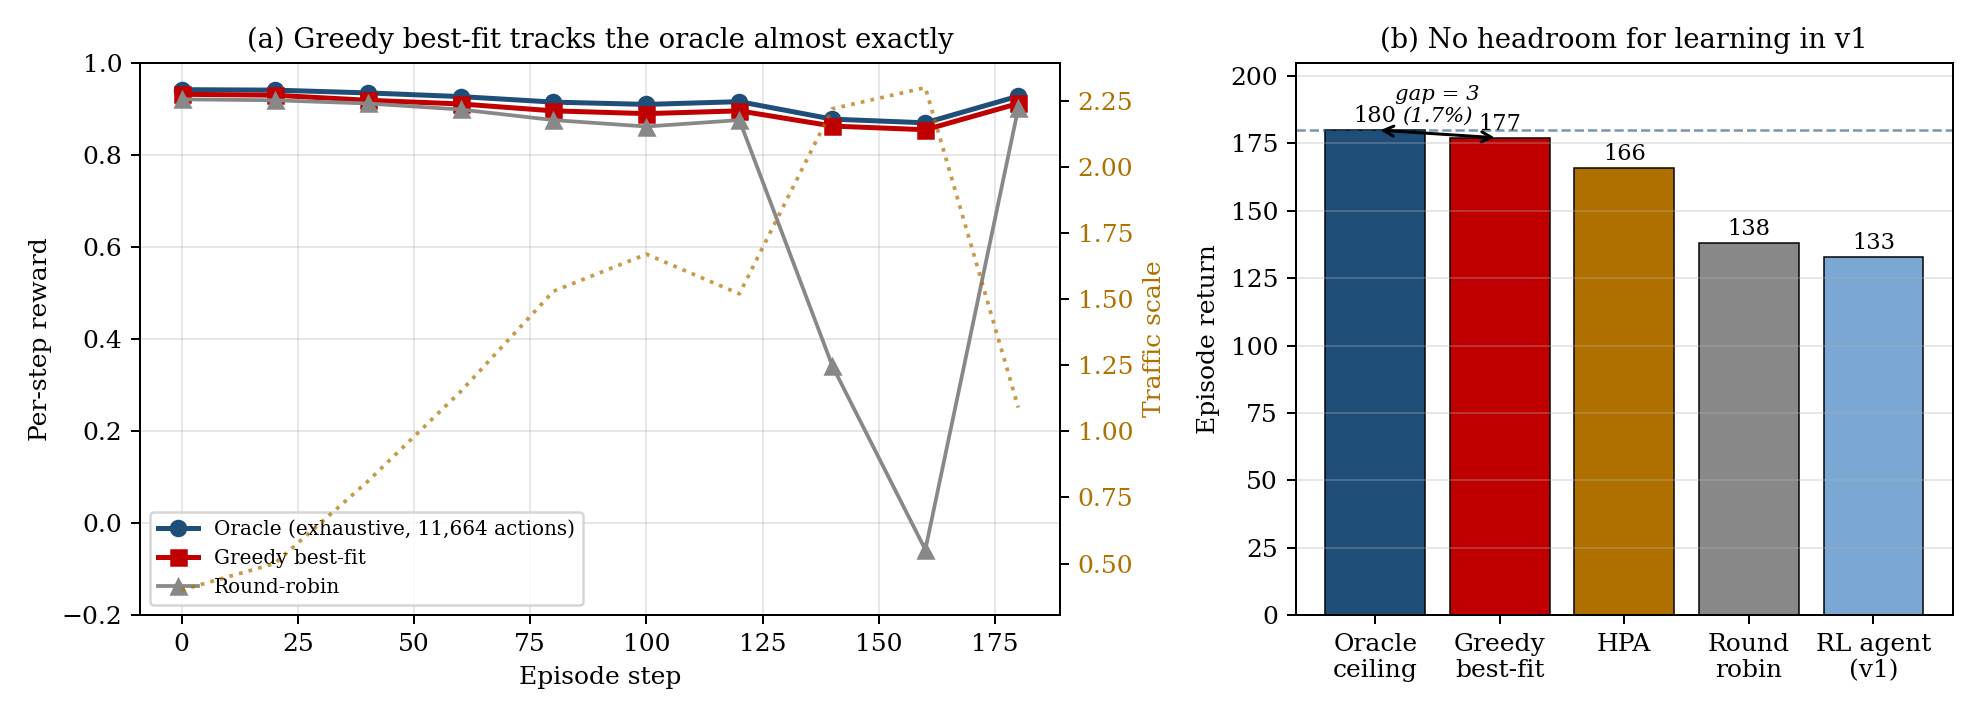
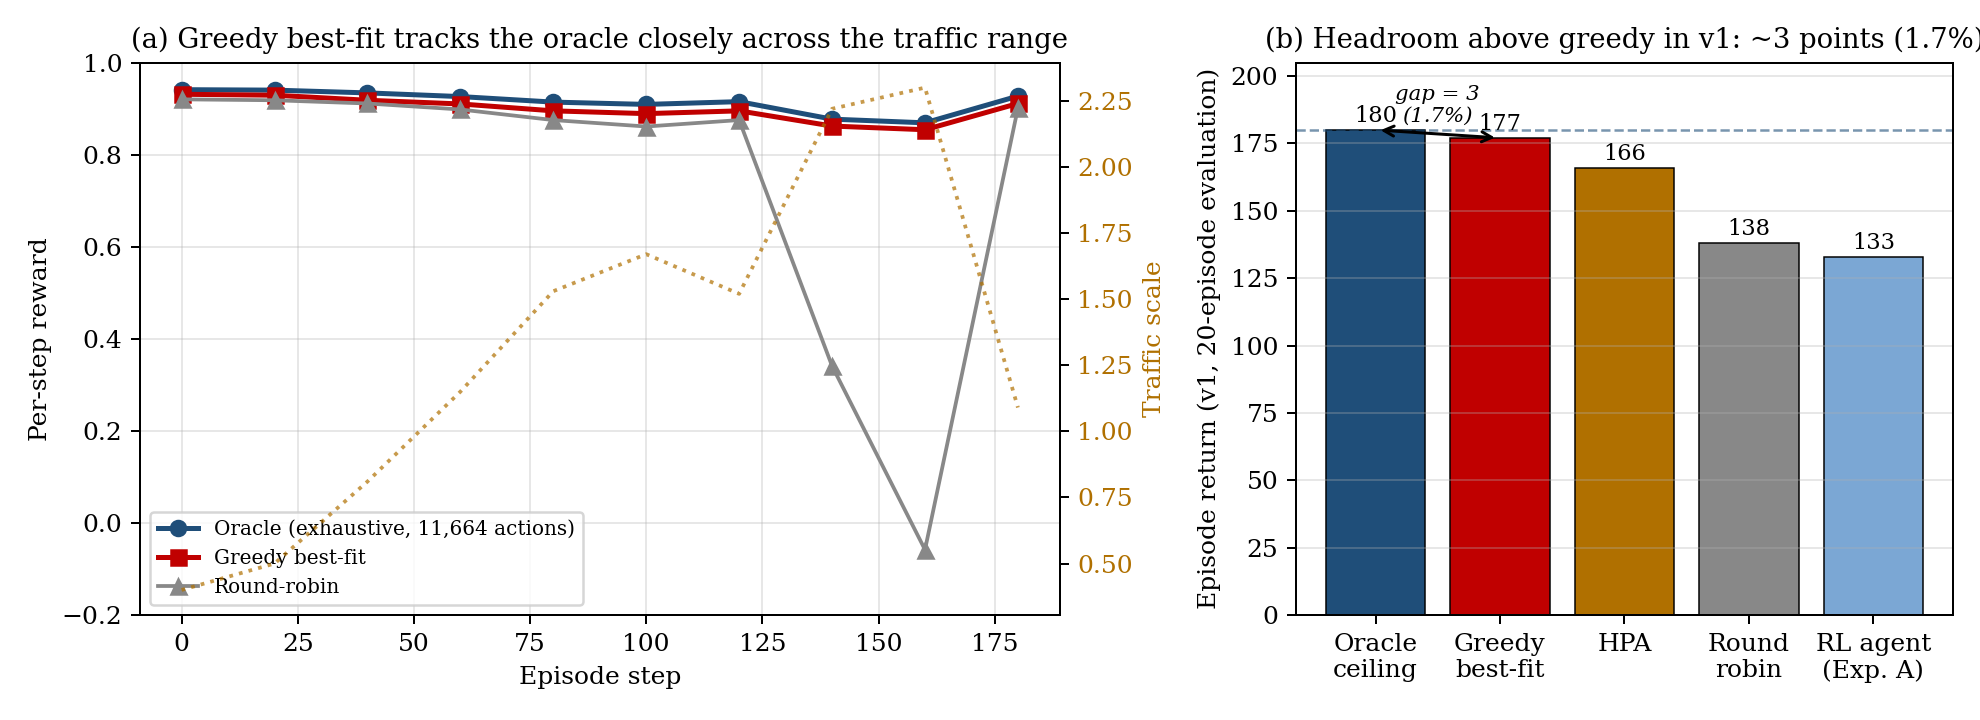
Revision round: --mu sensitivity flag (supervisor comment 17) + softened figure titles (comments 15, 19)
- run_sweep/train_amon_vec/evaluate now accept --mu to override the v2
  migration weight, tagging outputs amon_v2_muX_... for the {0.10, 0.20,
  0.30} sensitivity protocol
- fig1(b) and fig4 retitled in measured register; agent bars labelled by
  experiment (Exp. A / Exp. C) per comment 14

diff --git a/src/train_amon_vec.py b/src/train_amon_vec.py
@@ -43,8 +43,10 @@ from amon_agent import AmonAgent
 from train_amon import evaluate, evaluate_sampled, env_dims
 
 
-def make_env(env_version, **kw):
-    return AmonEnvV2(**kw) if env_version == "v2" else AmonEnv(**kw)
+def make_env(env_version, mu=None, **kw):
+    if env_version == "v2":
+        return AmonEnvV2(**kw) if mu is None else AmonEnvV2(mu=mu, **kw)
+    return AmonEnv(**kw)
 
 
 def train_vec(encoder="gat", env_version="v2", total_steps=1_000_000,
@@ -52,7 +54,7 @@ def train_vec(encoder="gat", env_version="v2", total_steps=1_000_000,
               lr=3e-4, gamma=0.99, gae_lambda=0.95, clip_eps=0.2,
               ent_coef=0.02, ent_coef_final=0.001, vf_coef=0.5,
               max_grad_norm=0.5, update_epochs=4, num_minibatches=8,
-              seed=1, device="cpu", eval_every=20, log_path=None):
+              seed=1, device="cpu", eval_every=20, log_path=None, mu=None):
     """rollout_len is PER ENV: the batch per update is num_envs * rollout_len."""
     torch.manual_seed(seed)
     np.random.seed(seed)
@@ -63,7 +65,7 @@ def train_vec(encoder="gat", env_version="v2", total_steps=1_000_000,
     optim = torch.optim.Adam(agent.parameters(), lr=lr, eps=1e-5)
 
     # Parallel envs, each with its own seed so their traffic traces differ.
-    envs = [make_env(env_version, episode_len=ep_len, seed=seed * 1000 + i)
+    envs = [make_env(env_version, mu=mu, episode_len=ep_len, seed=seed * 1000 + i)
             for i in range(num_envs)]
     obs_list, mask_list = [], []
     for i, e in enumerate(envs):
@@ -175,8 +177,9 @@ def train_vec(encoder="gat", env_version="v2", total_steps=1_000_000,
 
         if update % eval_every == 0 or update in (1, num_updates):
             er, es, eco, ep99, ev, emig = evaluate(
-                agent, device=device, env_version=env_version)
-            er_s = evaluate_sampled(agent, device=device, env_version=env_version)
+                agent, device=device, env_version=env_version, mu=mu)
+            er_s = evaluate_sampled(agent, device=device, env_version=env_version,
+                                    mu=mu)
             history.append((global_step, er, es, eco, ep99, ev, er_s, emig))
             print(f"upd {update:4d}/{num_updates} | step {global_step:8d} "
                   f"| greedyR {er:7.1f} | sampR {er_s:7.1f} | SLA {es:.2f} "
@@ -203,6 +206,8 @@ if __name__ == "__main__":
     ap.add_argument("--lr", type=float, default=3e-4)
     ap.add_argument("--ent-coef", type=float, default=0.02)
     ap.add_argument("--ent-coef-final", type=float, default=0.001)
+    ap.add_argument("--mu", type=float, default=None,
+                    help="migration weight override for v2 (sensitivity analysis)")
     ap.add_argument("--log", default=None)
     args = ap.parse_args()
 
@@ -210,7 +215,7 @@ if __name__ == "__main__":
         encoder=args.encoder, env_version=args.env, total_steps=args.steps,
         num_envs=args.num_envs, rollout_len=args.rollout_len, seed=args.seed,
         lr=args.lr, ent_coef=args.ent_coef, ent_coef_final=args.ent_coef_final,
-        log_path=args.log)
+        log_path=args.log, mu=args.mu)
     f = hist[-1]
     print(f"\nFINAL: greedy {f[1]:.1f} | sampled {f[6]:.1f} | SLA {f[2]:.2f} "
           f"| migrations {f[7]:.0f} | p99 {f[4]:.0f}ms | viol {f[5]}")

diff --git a/src/run_sweep.py b/src/run_sweep.py
@@ -49,6 +49,9 @@ def main():
                     help="use vectorised rollouts (8 parallel envs, ~9x faster "
                          "and far less gradient noise). Recommended.")
     ap.add_argument("--num-envs", type=int, default=8)
+    ap.add_argument("--mu", type=float, default=None,
+                    help="migration weight override for v2 (e.g. 0.10, 0.20); "
+                         "default None uses the environment default 0.30")
     ap.add_argument("--outdir", default="../results")
     args = ap.parse_args()
 
@@ -58,7 +61,8 @@ def main():
     for encoder in args.encoders:
         for seed in range(1, args.seeds + 1):
             tag = f"{encoder}_seed{seed}"
-            tag = f"{args.env}_{encoder}_seed{seed}"
+            mu_tag = f"_mu{args.mu:g}" if (args.mu is not None and args.env == "v2") else ""
+            tag = f"{args.env}{mu_tag}_{encoder}_seed{seed}"
             log = os.path.join(args.outdir, f"amon_{tag}.csv")
             print(f"\n{'='*60}\nRUN: encoder={encoder} seed={seed} "
                   f"steps={args.steps}\n{'='*60}")
@@ -67,7 +71,8 @@ def main():
                     encoder=encoder, env_version=args.env,
                     total_steps=args.steps, num_envs=args.num_envs,
                     seed=seed, lr=args.lr, ent_coef=args.ent_coef,
-                    ent_coef_final=args.ent_coef_final, log_path=log)
+                    ent_coef_final=args.ent_coef_final, log_path=log,
+                    mu=args.mu)
             else:
                 hist, agent = train(
                     encoder=encoder, total_steps=args.steps, seed=seed,
@@ -77,8 +82,9 @@ def main():
 
             # Final evaluation: 20 episodes, both greedy and sampled.
             gr, sla, cost, p99, viol, mig = evaluate(
-                agent, n_ep=20, env_version=args.env)
-            sr = evaluate_sampled(agent, n_ep=20, env_version=args.env)
+                agent, n_ep=20, env_version=args.env, mu=args.mu)
+            sr = evaluate_sampled(agent, n_ep=20, env_version=args.env,
+                                  mu=args.mu)
             summary.append(dict(
                 env=args.env, encoder=encoder, seed=seed, steps=args.steps,
                 greedy_return=gr, sampled_return=sr, sla=sla,
@@ -88,7 +94,8 @@ def main():
                   f"viol {viol}")
 
     # Write summary table.
-    summ_path = os.path.join(args.outdir, f"sweep_summary_{args.env}.csv")
+    mu_tag = f"_mu{args.mu:g}" if (args.mu is not None and args.env == "v2") else ""
+    summ_path = os.path.join(args.outdir, f"sweep_summary_{args.env}{mu_tag}.csv")
     keys = ["env", "encoder", "seed", "steps", "greedy_return",
             "sampled_return", "sla", "cost", "p99", "ndpr_viol", "migrations"]
     with open(summ_path, "w") as f:

diff --git a/src/train_amon.py b/src/train_amon.py
@@ -25,9 +25,12 @@ from amon_env_v2 import AmonEnvV2
 from amon_agent import AmonAgent
 
 
-def make_env(env_version, **kw):
-    """v1 = myopic (amon_env), v2 = sequential with migration cost."""
-    return AmonEnvV2(**kw) if env_version == "v2" else AmonEnv(**kw)
+def make_env(env_version, mu=None, **kw):
+    """v1 = myopic (amon_env), v2 = sequential with migration cost.
+    mu overrides the migration weight for v2 (sensitivity analysis)."""
+    if env_version == "v2":
+        return AmonEnvV2(**kw) if mu is None else AmonEnvV2(mu=mu, **kw)
+    return AmonEnv(**kw)
 
 
 def env_dims(env_version):
@@ -35,13 +38,13 @@ def env_dims(env_version):
 
 
 def evaluate(agent, n_ep=10, ep_len=200, seed0=9000, device="cpu",
-             env_version="v1"):
+             env_version="v1", mu=None):
     """Greedy (argmax) evaluation return + diagnostics, NDPR-masked."""
     agent.eval()
     rets, slas, costs, p99s, viol, migs = [], [], [], [], 0, []
     with torch.no_grad():
         for ep in range(n_ep):
-            env = make_env(env_version, episode_len=ep_len, seed=seed0 + ep)
+            env = make_env(env_version, mu=mu, episode_len=ep_len, seed=seed0 + ep)
             obs, _ = env.reset(seed=seed0 + ep)
             R, M = 0.0, 0
             for t in range(ep_len):
@@ -70,7 +73,7 @@ def evaluate(agent, n_ep=10, ep_len=200, seed0=9000, device="cpu",
 
 
 def evaluate_sampled(agent, n_ep=10, ep_len=200, seed0=9000, device="cpu",
-                     env_version="v1"):
+                     env_version="v1", mu=None):
     """Stochastic (sampled) evaluation return, NDPR-masked. Complements the
     greedy evaluate(): when logits are near-uniform, greedy argmax is brittle,
     so the sampled return is the more faithful progress signal early on."""
@@ -78,7 +81,7 @@ def evaluate_sampled(agent, n_ep=10, ep_len=200, seed0=9000, device="cpu",
     rets = []
     with torch.no_grad():
         for ep in range(n_ep):
-            env = make_env(env_version, episode_len=ep_len, seed=seed0 + ep)
+            env = make_env(env_version, mu=mu, episode_len=ep_len, seed=seed0 + ep)
             obs, _ = env.reset(seed=seed0 + ep)
             R = 0.0
             for t in range(ep_len):
